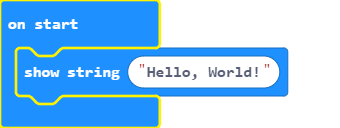
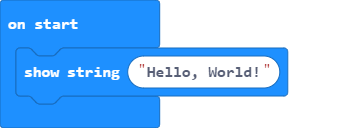
I went to Python script

Changed region(s): [[0.0, 0.0, 0.5, 1.0]]

diff --git a/main.py b/main.py
@@ -1,0 +1,1 @@
+basic.showString("Hello, World!")
